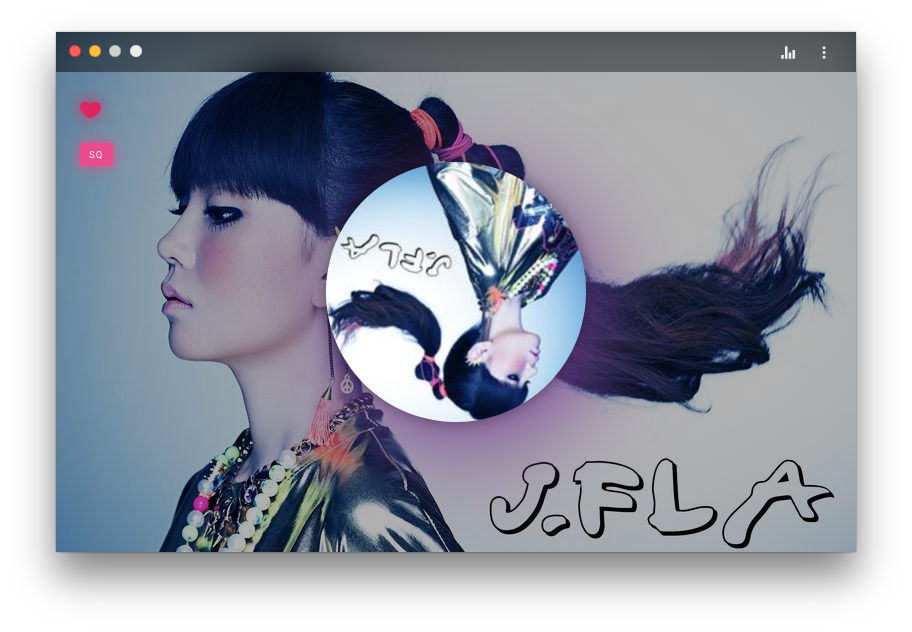
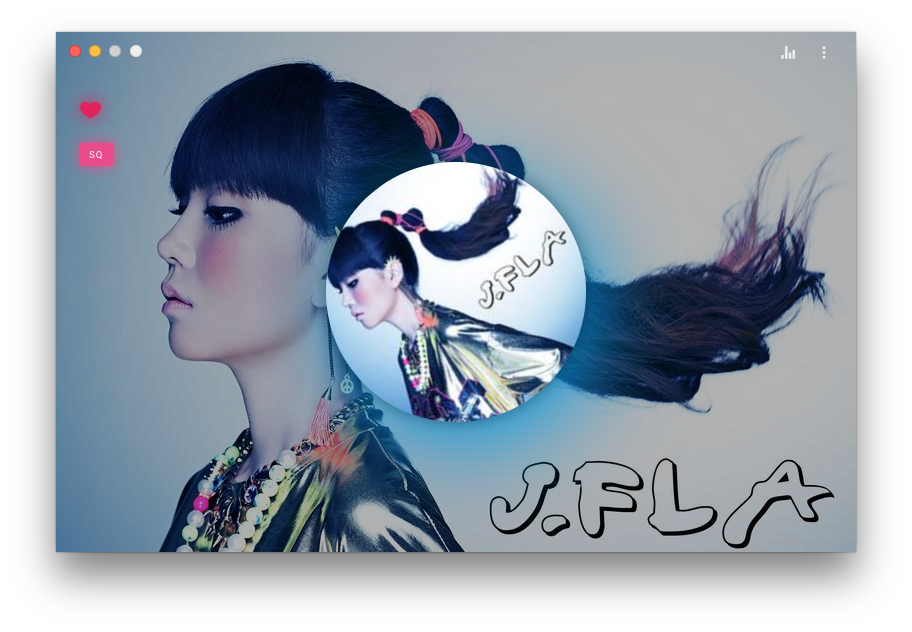
Remove header from cover screen

Changed region(s): [[0.307, 0.2405, 0.7061, 0.7516], [0.0614, 0.0301, 0.9518, 0.1203]]

diff --git a/src/js/pages/Singleton/index.js b/src/js/pages/Singleton/index.js
@@ -41,6 +41,7 @@ class Singleton extends Component {
             <div className={classes.container}>
                 <Header
                     {...{
+                        transparent: true,
                         showBack: true,
                     }}
                 />
@@ -57,7 +58,7 @@ class Singleton extends Component {
                     />
 
                     {
-                        (song.data && song.data.isFlac)
+                        (song.data && !song.data.isFlac)
                             ? (
                                 <span
                                     className={classes.highquality}
